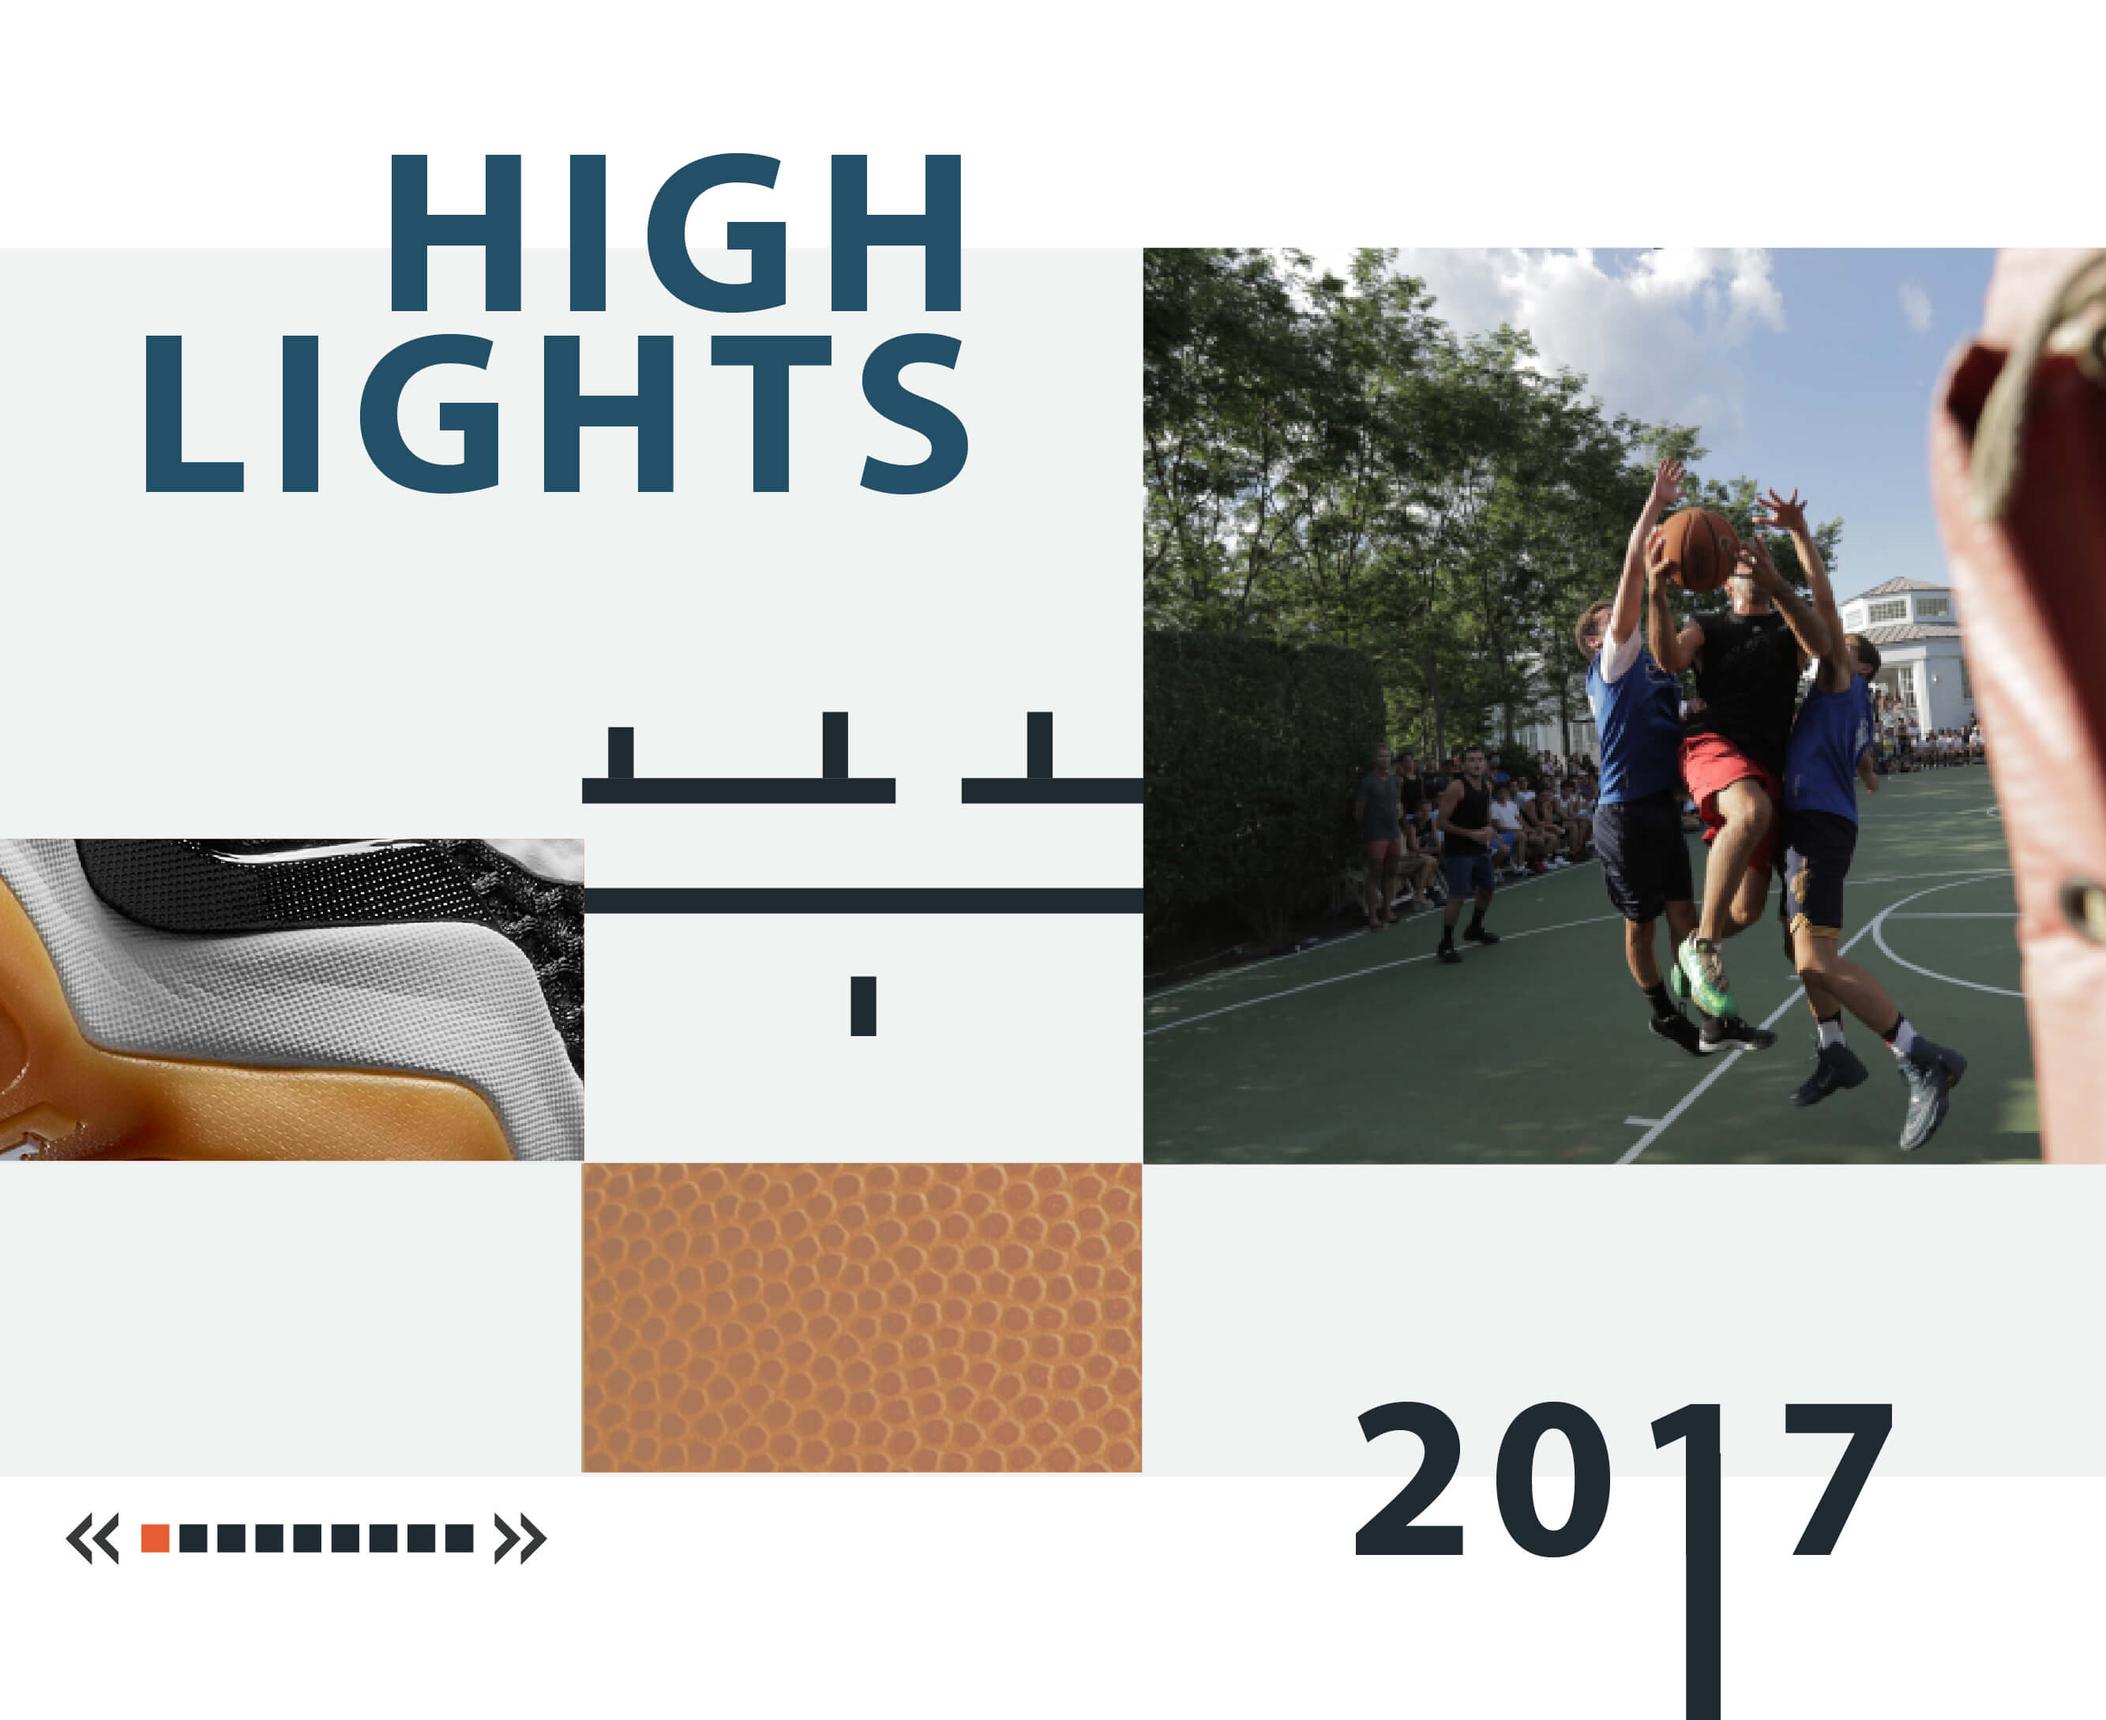
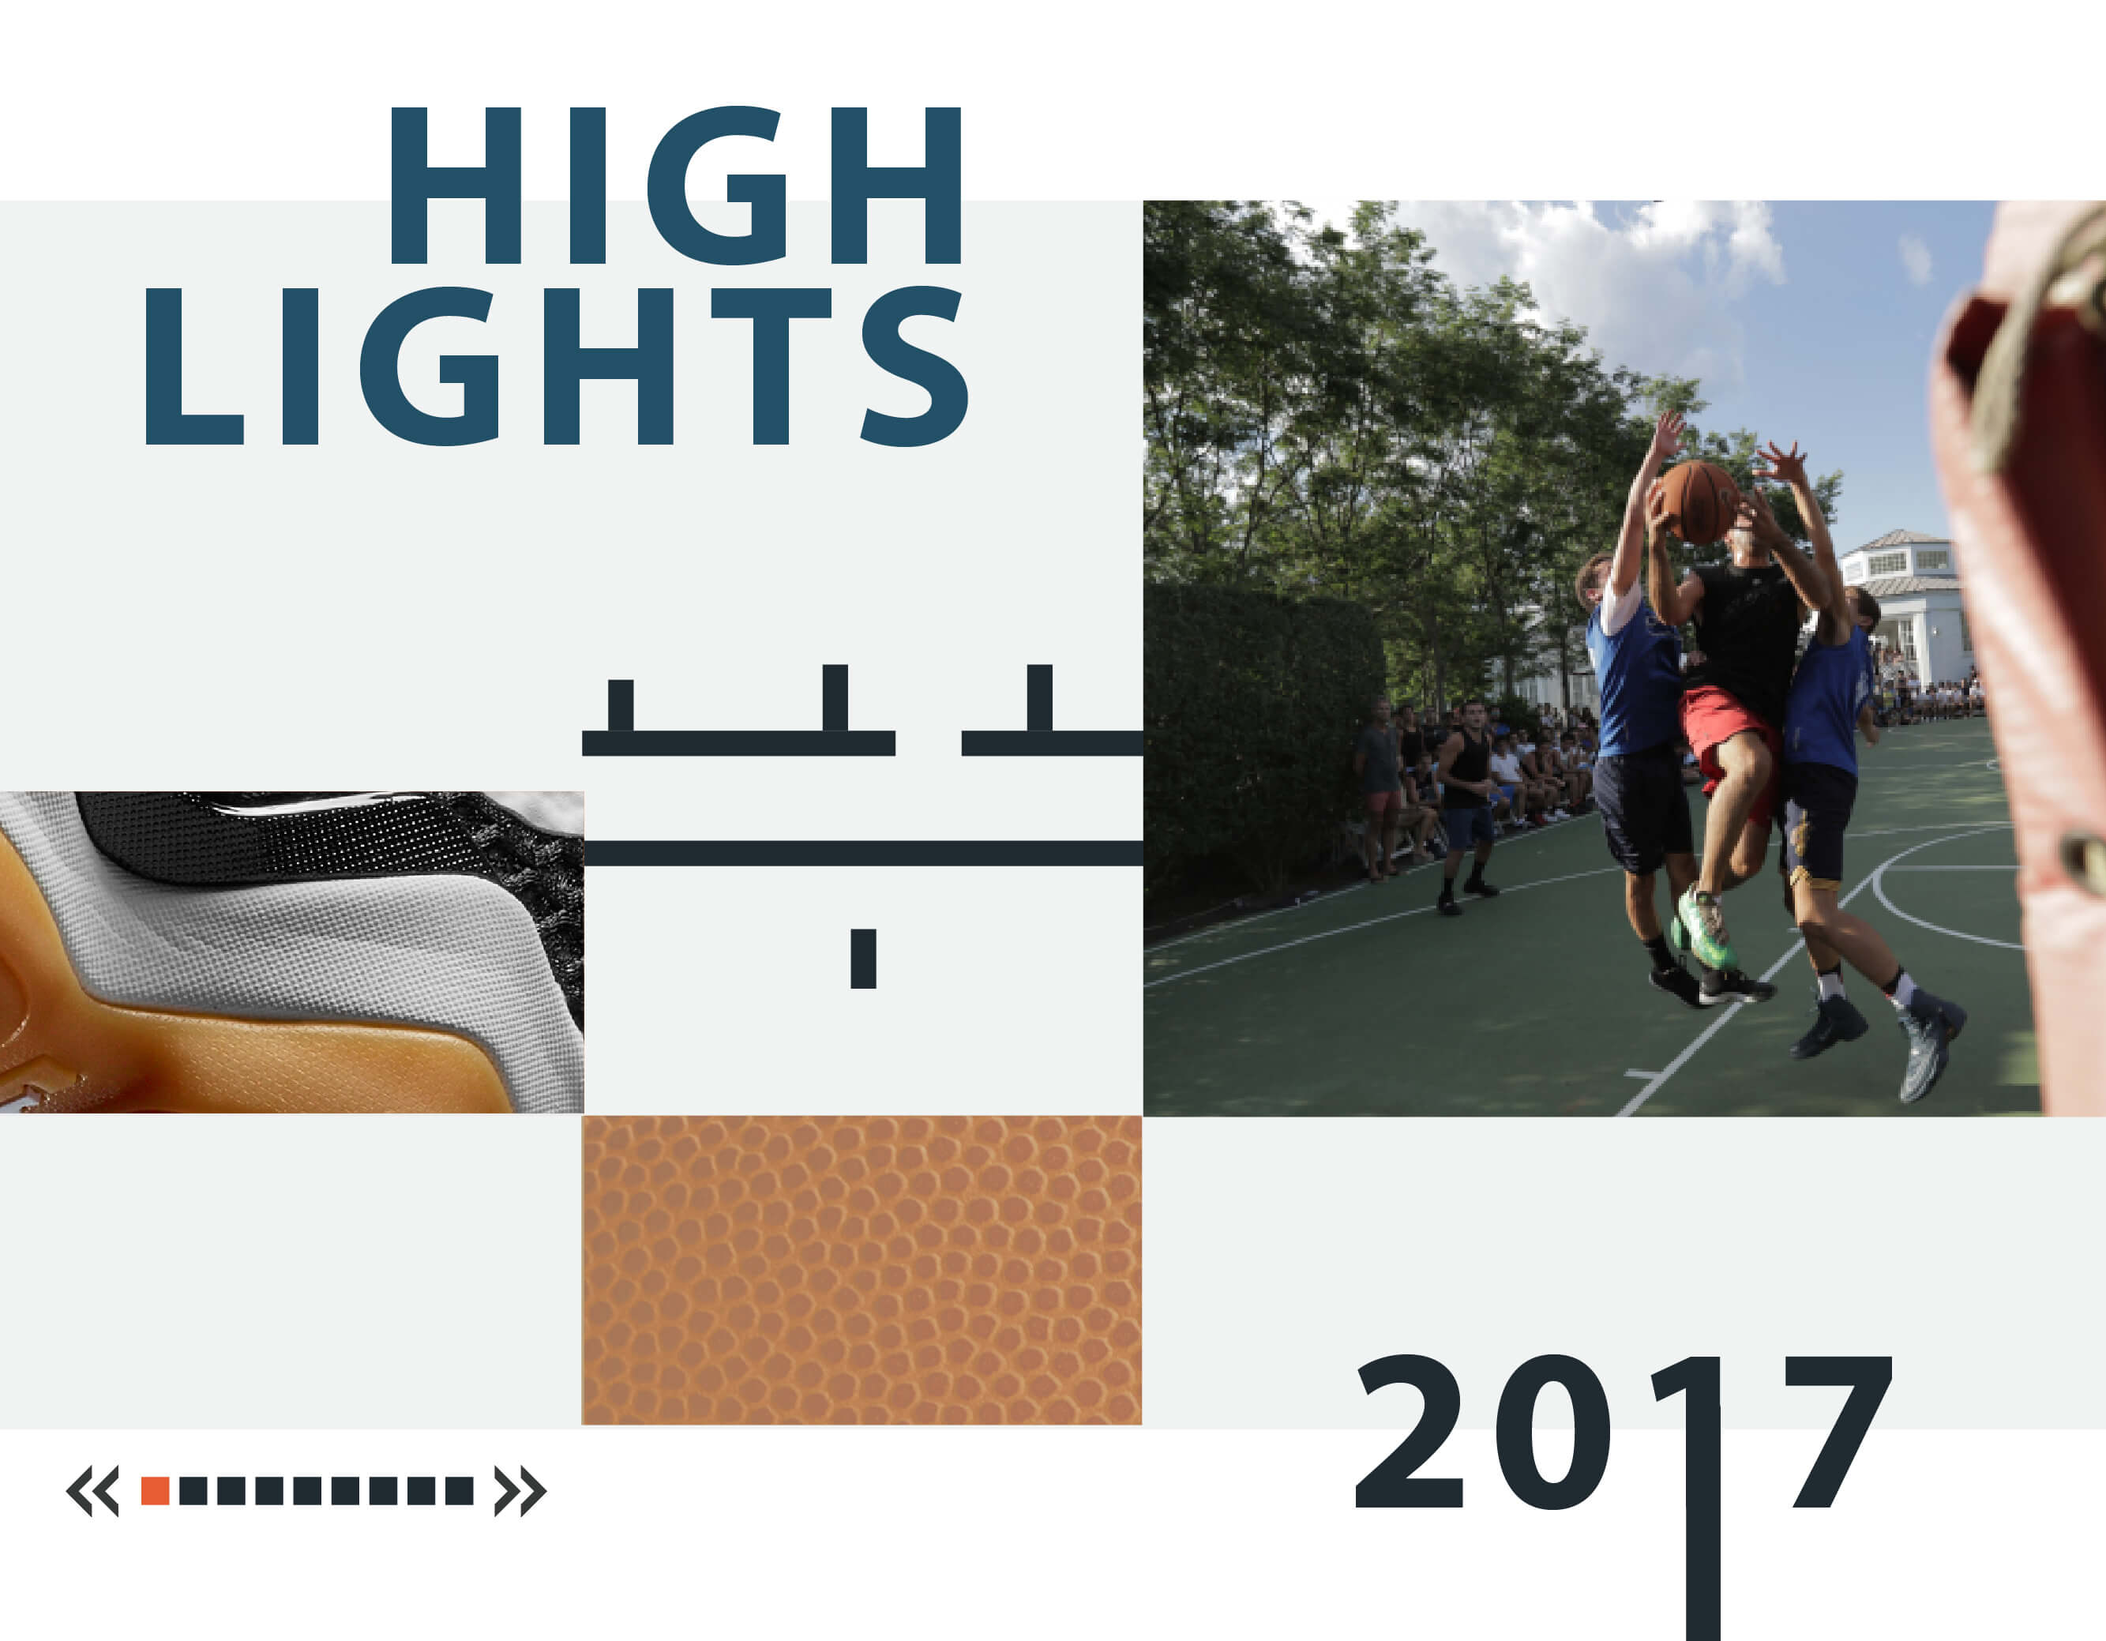
Fixed register page line

diff --git a/index.html b/index.html
@@ -116,7 +116,7 @@
     </div>
 
     <!-- HIGHLIGHTS SECTION //-->
-    <div style="width: 100%; height: 81.6vw; position: relative;">
+    <div style="width: 100.44%; height: 81.66479vw; position: relative;">
       <img src="Images/Highlights.jpg" alt="" style="width: 100%; height: 100%;">
     </div>
 
